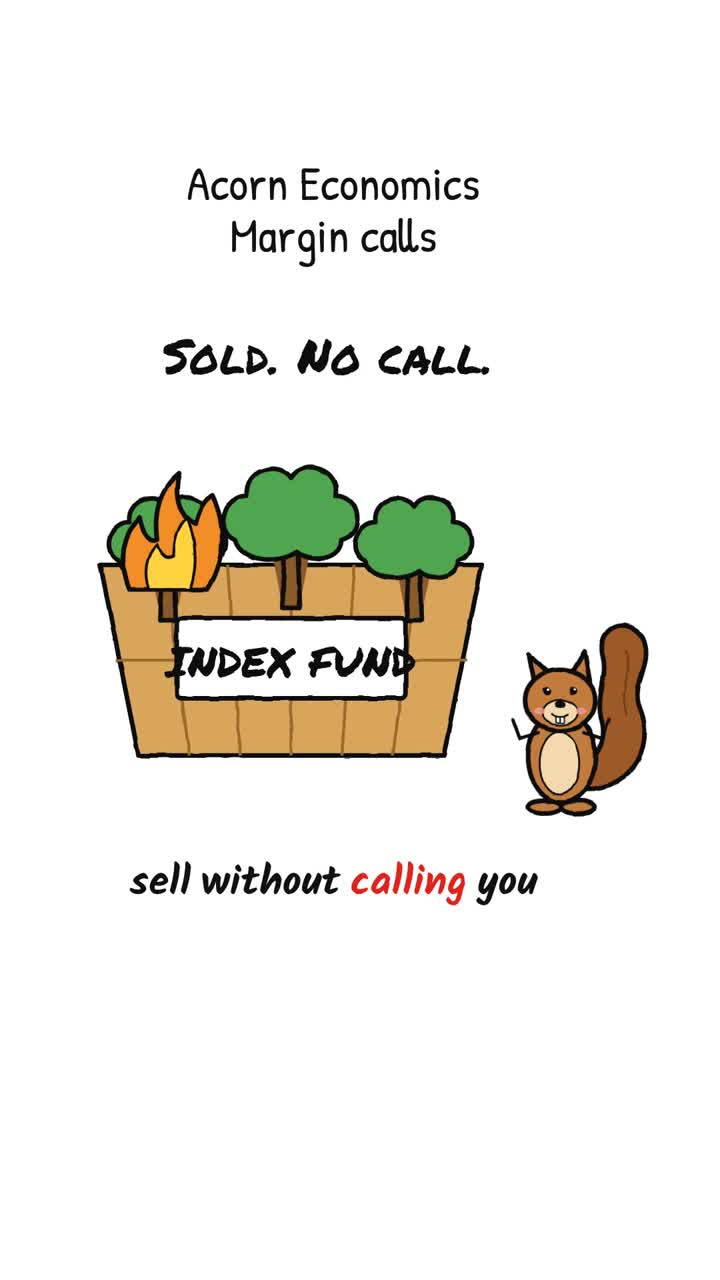
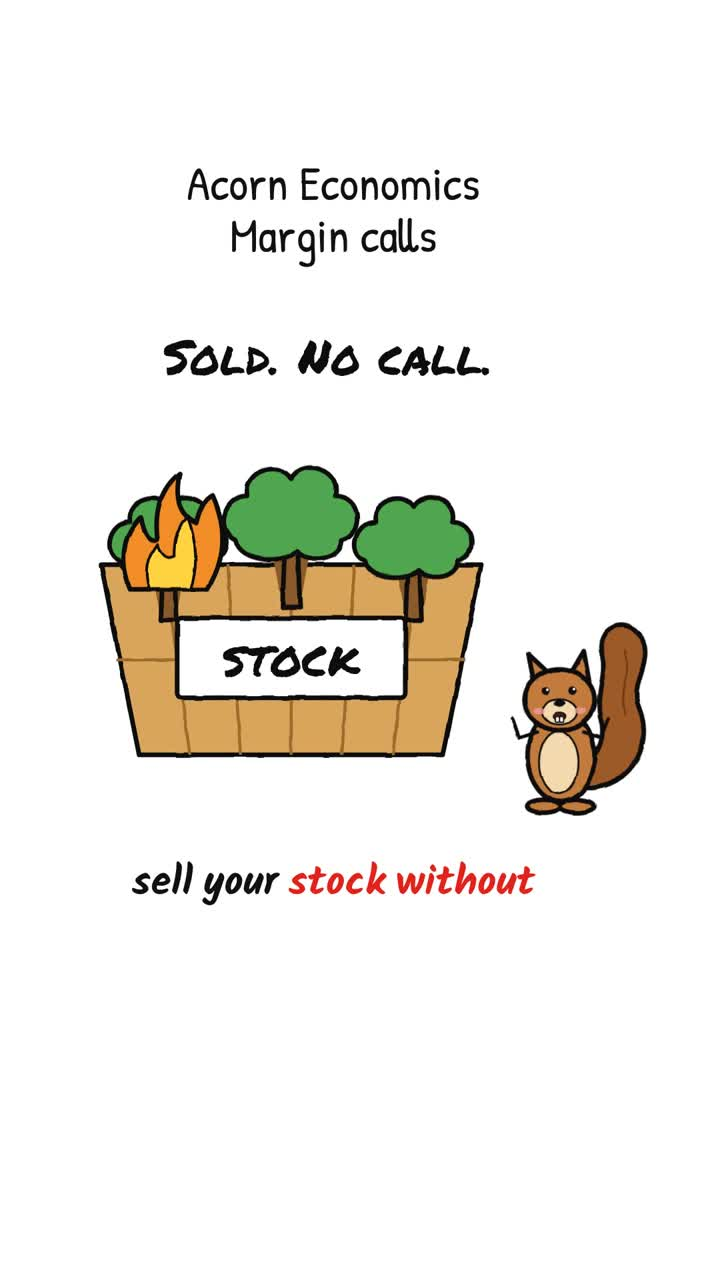
2027-01-25 explainer: built

diff --git a/engine/concepts/scripts/auto/2027-01-25-explainer.factcheck.md b/engine/concepts/scripts/auto/2027-01-25-explainer.factcheck.md
@@ -25,3 +25,4 @@ VERDICT: PASS
 ## Round 2 (editor)
 Reviewed applied fixes (hook accuracy, $6,667 board, equity wording, cover); limits pass.
 VERDICT: PASS
+Editor: fire scene label set to STOCK (was default INDEX FUND); line 5 says 'your stock'; trimmed 'Same speed.'
